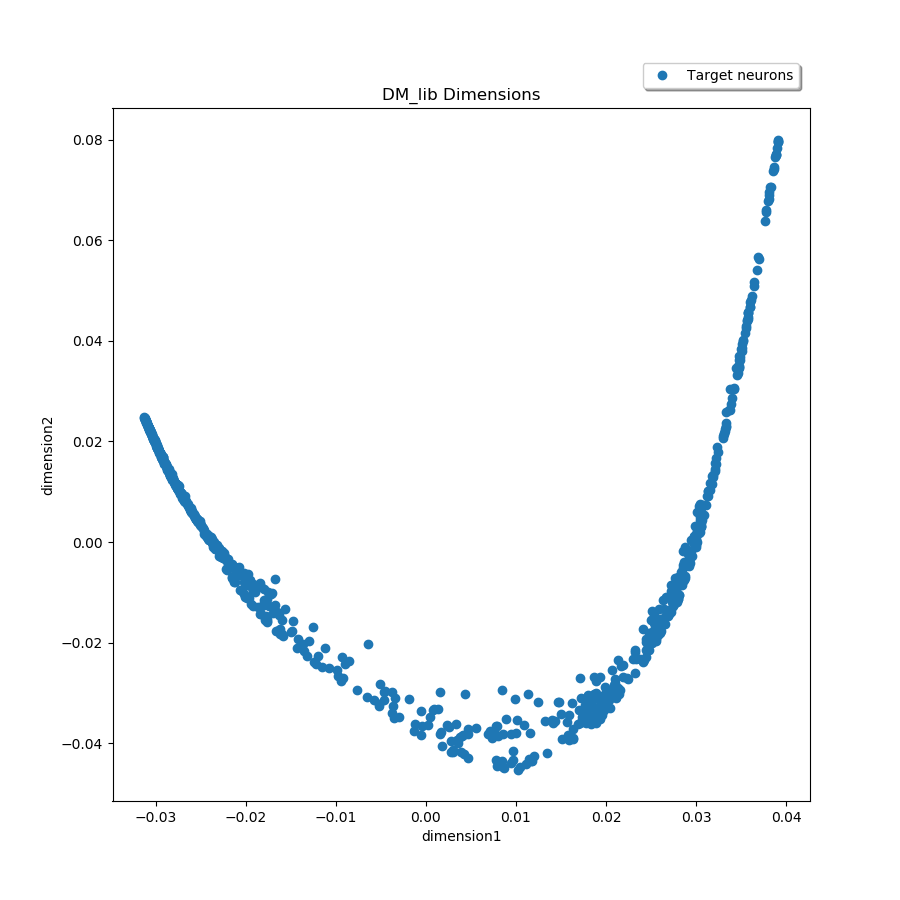
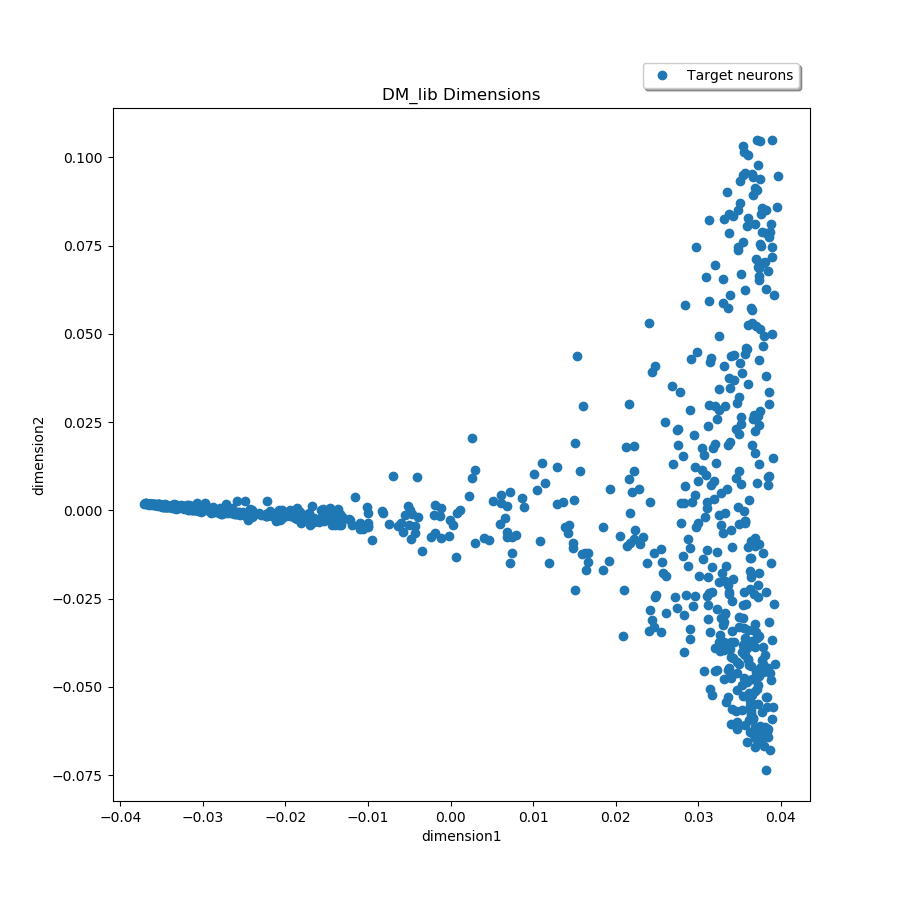
results

diff --git a/core/diffusion_lib_pfc.py b/core/diffusion_lib_pfc.py
@@ -1,7 +1,6 @@
 import sys
 import scipy.io
 import numpy as np
-import pandas as pd
 import matplotlib.pyplot as plt
 from mpl_toolkits.mplot3d import Axes3D 
 
@@ -9,35 +8,13 @@ from sklearn.datasets import load_digits
 from sklearn.manifold import SpectralEmbedding
 
 #X = np.genfromtxt("../data/processed/hc_13/T22_4.csv", delimiter=',')[:, (1,2)]
-d1 = np.load("../distances/21/1/distance_matrix_T22_0_1s_20ms.npy")
-d2 = np.load("../distances/21/1/distance_matrix_T22_2_1s_20ms.npy")
-d3 = np.load("../distances/21/1/distance_matrix_T22_3_1s_20ms.npy")
-d4 = np.load("../distances/21/1/distance_matrix_T22_4_1s_20ms.npy")
-d5 = np.load("../distances/21/1/distance_matrix_T26_0_1s_20ms.npy")
-d6 = np.load("../distances/21/1/distance_matrix_T27_0_1s_20ms.npy")
-d7 = np.load("../distances/21/1/distance_matrix_T27_1_1s_20ms.npy")
-d8 = np.load("../distances/21/1/distance_matrix_T27_2_1s_20ms.npy")
-d9 = np.load("../distances/21/1/distance_matrix_T27_3_1s_20ms.npy")
-d10 = np.load("../distances/21/1/distance_matrix_T27_4_1s_20ms.npy")
-d11 = np.load("../distances/21/1/distance_matrix_T27_5_1s_20ms.npy")
-d12 = np.load("../distances/21/1/distance_matrix_T27_6_1s_20ms.npy")
-#d13 = np.load("../distances/21/1/distance_matrix_T27_7_1s_20ms.npy")
+d1 = np.load("../distances/21/1/distance_matrix_T12_0_1s_20ms.npy")
+d2 = np.load("../distances/21/1/distance_matrix_T15_0_1s_20ms.npy")
+d3 = np.load("../distances/21/1/distance_matrix_T19_0_1s_20ms.npy")
 # d1 = d1/np.amax(d1)
 # d2 = d2/np.amax(d2)
 # d3 = d3/np.amax(d3)
-# d4 = d4/np.amax(d4)
-# d5 = d5/np.amax(d5)
-# d6 = d6/np.amax(d6)
-# d7 = d7/np.amax(d7)
-# d8 = d8/np.amax(d8)
-# d9 = d9/np.amax(d9)
-# d10 = d10/np.amax(d10)
-# d11 = d11/np.amax(d11)
-# d12 = d12/np.amax(d12)
-#dM = np.sqrt(d1**2 + d3**2 + d4**2 + d5**2 + d6**2 + d7**2 + d8**2 + d9**2 + d10**2 + d11**2 + d12**2)
-dM = np.sqrt(d1**2 + d2**2 + d3**2 + d4**2 + d5**2 + d6**2 + d7**2 + d8**2 + d9**2 + d10**2 + d11**2 + d12**2)
-
-#dM = np.load("../distances/21/1/distance_matrix_spatial.npy")
+dM = np.sqrt(d1**2 + d2**2 + d3**2)
 
 def thresholdMatrix(sM, topN):
   n = sM.shape[0]
@@ -71,13 +48,52 @@ coords = embedding.fit( thresholdMatrix(1/(dM+0.1), 10) ).embedding_
 #coords = embedding.fit( np.exp(-dM/64) ).embedding_
 print(coords.shape)
 
+fig = plt.figure(figsize=(9,9))
+ax = plt.subplot(111)
+ax.plot(coords[:, 0], coords[:, 1], 'o-', label="Target neurons")
+plt.title('DM_lib Dimensions')
+plt.xlabel('dimension1')
+plt.ylabel('dimension2')
+ax.legend(loc='upper left', bbox_to_anchor=(0.75, 1.075), shadow=True, ncol=1)
+#plt.savefig('../results/dm/21/1/test_dmlib.svg', format="svg")
+plt.savefig('../results/21/1/pfc/dm2d.png')
 
+fig = plt.figure(figsize=(9,9))
+ax = plt.subplot(111)
+ax.plot(coords[:, 0], 'o-', label="Target neurons")
+plt.title('DM_lib Dimensions')
+plt.xlabel('dimension1')
+plt.ylabel('dimension2')
+ax.legend(loc='upper left', bbox_to_anchor=(0.75, 1.075), shadow=True, ncol=1)
+#plt.savefig('../results/dm/21/1/test_dmlib_ev1.svg', format="svg")
+plt.savefig('../results/21/1/pfc/dmev1.png')
+
+fig = plt.figure(figsize=(9,9))
+ax = plt.subplot(111)
+ax.plot(coords[:, 1], 'o-', label="Target neurons")
+plt.title('DM_lib Dimensions')
+plt.xlabel('dimension1')
+plt.ylabel('dimension2')
+ax.legend(loc='upper left', bbox_to_anchor=(0.75, 1.075), shadow=True, ncol=1)
+#plt.savefig('../results/dm/21/1/test_dmlib_ev2.svg', format="svg")
+plt.savefig('../results/21/1/pfc/dmev2.png')
+
+
+rng = dM.shape[0]
+fig = plt.figure()
+ax = fig.gca(projection='3d')
+z = np.linspace(0, rng, rng)
+
+ax.plot(coords[:, 0], coords[:, 1], z, 'o-', label='parametric curve', linewidth=0.6, markersize=1)# c = plt.cm.jet(z/max(z)))
+ax.legend()
+
+#plt.show()
+plt.savefig('../results/21/1/pfc/dm3d.png')
 
 
 
 
 ############################ CORNER OVERLAP ###########################
-
 
 
 mat = scipy.io.loadmat('../data/raw/hc_13/T1rawpos.mat')
@@ -102,25 +118,6 @@ resY = np.zeros(rng)
 for i in range(0, spikes.size):
   resX[int((int(spikes[i])-start)/fct)] = xs[i]
   resY[int((int(spikes[i])-start)/fct)] = ys[i]
-
-# fig = plt.figure()
-# ax = fig.gca(projection='3d')
-# z = np.linspace(0, rng, rng)
-
-# ax.plot(resX, resY, z, 'o-', label='parametric curve', linewidth=0.6, markersize=1)# c = plt.cm.jet(z/max(z)))
-# ax.legend()
-
-# #plt.show()
-# plt.savefig("../plots/position_plot/" + sys.argv[1] + "/" + sys.argv[2] + "/overall3D.png")
-
-fig = plt.figure(figsize=(9,9))
-ax = plt.subplot(111)
-ax.plot(resX, resY, 'o', label="Target neuron")
-plt.title('Position plot')
-plt.xlabel('x position')
-plt.ylabel('y position')
-ax.legend(loc='upper left', bbox_to_anchor=(0.75, 1.075), shadow=True, ncol=1)
-plt.savefig("../plots/position_plot/" + sys.argv[1] + "/" + sys.argv[2] + "/filtered_" + cellNo + ".png")
 
 
 cornerX = []
@@ -162,7 +159,7 @@ plt.xlabel('dimension1')
 plt.ylabel('dimension2')
 ax.legend(loc='upper left',  shadow=True, ncol=1)#bbox_to_anchor=(0.75, 1.075),
 #plt.savefig('../results/dm/21/1/test_dmlib_ev1.svg', format="svg")
-plt.savefig('../results/21/1/dmev1_overlap_200.png')
+plt.savefig('../results/21/1/pfc/dmev1_overlap_200.png')
 
 fig = plt.figure(figsize=(9,9))
 ax = plt.subplot(111)
@@ -176,4 +173,4 @@ plt.xlabel('dimension1')
 plt.ylabel('dimension2')
 ax.legend(loc='upper left',  shadow=True, ncol=1)#bbox_to_anchor=(0.75, 1.075),
 #plt.savefig('../results/dm/21/1/test_dmlib_ev1.svg', format="svg")
-plt.savefig('../results/21/1/dmev2_overlap_200.png')
+plt.savefig('../results/21/1/pfc/dmev2_overlap_200.png')

diff --git a/core/diffusion_lib.py b/core/diffusion_lib.py
@@ -7,19 +7,19 @@ from sklearn.datasets import load_digits
 from sklearn.manifold import SpectralEmbedding
 
 #X = np.genfromtxt("../data/processed/hc_13/T22_4.csv", delimiter=',')[:, (1,2)]
-d1 = np.load("../distances/23/5/distance_matrix_T22_0_1s_20ms.npy")
-d2 = np.load("../distances/23/5/distance_matrix_T22_1_1s_20ms.npy")
-d4 = np.load("../distances/23/5/distance_matrix_T22_2_1s_20ms.npy")
-d3 = np.load("../distances/23/5/distance_matrix_T22_3_1s_20ms.npy")
-d5 = np.load("../distances/23/5/distance_matrix_T26_0_1s_20ms.npy")
-d6 = np.load("../distances/23/5/distance_matrix_T27_0_1s_20ms.npy")
-d7 = np.load("../distances/23/5/distance_matrix_T27_1_1s_20ms.npy")
-d8 = np.load("../distances/23/5/distance_matrix_T27_2_1s_20ms.npy")
-#d9 = np.load("../distances/23/5/distance_matrix_T27_3_1s_20ms.npy")
-d10 = np.load("../distances/23/5/distance_matrix_T27_4_1s_20ms.npy")
-d11 = np.load("../distances/23/5/distance_matrix_T27_5_1s_20ms.npy")
-d12 = np.load("../distances/23/5/distance_matrix_T27_6_1s_20ms.npy")
-d13 = np.load("../distances/23/5/distance_matrix_T27_7_1s_20ms.npy")
+d1 = np.load("../distances/21/1/distance_matrix_T22_0_1s_20ms.npy")
+d2 = np.load("../distances/21/1/distance_matrix_T22_2_1s_20ms.npy")
+d3 = np.load("../distances/21/1/distance_matrix_T22_3_1s_20ms.npy")
+d4 = np.load("../distances/21/1/distance_matrix_T22_4_1s_20ms.npy")
+d5 = np.load("../distances/21/1/distance_matrix_T26_0_1s_20ms.npy")
+d6 = np.load("../distances/21/1/distance_matrix_T27_0_1s_20ms.npy")
+d7 = np.load("../distances/21/1/distance_matrix_T27_1_1s_20ms.npy")
+d8 = np.load("../distances/21/1/distance_matrix_T27_2_1s_20ms.npy")
+d9 = np.load("../distances/21/1/distance_matrix_T27_3_1s_20ms.npy")
+d10 = np.load("../distances/21/1/distance_matrix_T27_4_1s_20ms.npy")
+d11 = np.load("../distances/21/1/distance_matrix_T27_5_1s_20ms.npy")
+d12 = np.load("../distances/21/1/distance_matrix_T27_6_1s_20ms.npy")
+#d13 = np.load("../distances/21/1/distance_matrix_T27_7_1s_20ms.npy")
 # d1 = d1/np.amax(d1)
 # d2 = d2/np.amax(d2)
 # d3 = d3/np.amax(d3)
@@ -32,10 +32,10 @@ d13 = np.load("../distances/23/5/distance_matrix_T27_7_1s_20ms.npy")
 # d10 = d10/np.amax(d10)
 # d11 = d11/np.amax(d11)
 # d12 = d12/np.amax(d12)
-dM = np.sqrt(d1**2 + d2**2 + d3**2 + d4**2 + d5**2 + d6**2 + d7**2 + d8**2 + d10**2 + d11**2 + d12**2 +  d13**2)
-#dM = np.sqrt(d1**2 + d2**2 + d3**2 + d4**2 + d5**2 + d6**2 + d7**2 + d8**2 + d9**2 + d10**2 + d11**2 + d12**2)
+#dM = np.sqrt(d1**2 + d2**2 + d3**2 + d4**2 + d5**2 + d6**2 + d7**2 + d8**2 + d10**2 + d11**2 + d12**2 +  d13**2)
+dM = np.sqrt(d1**2 + d2**2 + d3**2 + d4**2 + d5**2 + d6**2 + d7**2 + d8**2 + d9**2 + d10**2 + d11**2 + d12**2)
 
-#dM = np.load("../distances/23/5/distance_matrix_spatial.npy")
+#dM = np.load("../distances/21/1/distance_matrix_spatial.npy")
 
 def thresholdMatrix(sM, topN):
   n = sM.shape[0]
@@ -61,6 +61,7 @@ def thresholdMatrix(sM, topN):
 
 embedding = SpectralEmbedding(n_components=2, affinity="precomputed", n_neighbors=0)
 coords = embedding.fit( thresholdMatrix(1/(dM+0.1), 10) ).embedding_
+#coords = embedding.fit( thresholdMatrix(np.exp(-dM), 10) ).embedding_
 #coords = embedding.fit( 1/(dM+0.0001) ).embedding_
 #coords = embedding.fit( 1/(dM + 0.01)**2).embedding_
 #coords = embedding.fit( np.exp(-dM) ).embedding_
@@ -75,28 +76,28 @@ plt.title('DM_lib Dimensions')
 plt.xlabel('dimension1')
 plt.ylabel('dimension2')
 ax.legend(loc='upper left', bbox_to_anchor=(0.75, 1.075), shadow=True, ncol=1)
-#plt.savefig('../results/dm/23/5/test_dmlib.svg', format="svg")
-plt.savefig('../results/23/5/dm2d.png')
+#plt.savefig('../results/dm/21/1/test_dmlib.svg', format="svg")
+plt.savefig('../results/21/1/dm2d.png')
 
 fig = plt.figure(figsize=(9,9))
 ax = plt.subplot(111)
-ax.plot(coords[:, 0][200:245], 'o-', label="Target neurons")
+ax.plot(coords[:, 0], 'o-', label="Target neurons")
 plt.title('DM_lib Dimensions')
 plt.xlabel('dimension1')
 plt.ylabel('dimension2')
 ax.legend(loc='upper left', bbox_to_anchor=(0.75, 1.075), shadow=True, ncol=1)
-#plt.savefig('../results/dm/23/5/test_dmlib_ev1.svg', format="svg")
-plt.savefig('../results/23/5/dmev1.png')
+#plt.savefig('../results/dm/21/1/test_dmlib_ev1.svg', format="svg")
+plt.savefig('../results/21/1/dmev1.png')
 
 fig = plt.figure(figsize=(9,9))
 ax = plt.subplot(111)
-ax.plot(coords[:, 1][200:245], 'o-', label="Target neurons")
+ax.plot(coords[:, 1], 'o-', label="Target neurons")
 plt.title('DM_lib Dimensions')
 plt.xlabel('dimension1')
 plt.ylabel('dimension2')
 ax.legend(loc='upper left', bbox_to_anchor=(0.75, 1.075), shadow=True, ncol=1)
-#plt.savefig('../results/dm/23/5/test_dmlib_ev2.svg', format="svg")
-plt.savefig('../results/23/5/dmev2.png')
+#plt.savefig('../results/dm/21/1/test_dmlib_ev2.svg', format="svg")
+plt.savefig('../results/21/1/dmev2.png')
 
 
 rng = dM.shape[0]
@@ -108,4 +109,4 @@ ax.plot(coords[:, 0], coords[:, 1], z, 'o-', label='parametric curve', linewidth
 ax.legend()
 
 #plt.show()
-plt.savefig('../results/23/5/dm3d.png')
+plt.savefig('../results/21/1/dm3d.png')

diff --git a/core/diffusion_lib_filtered.py b/core/diffusion_lib_filtered.py
@@ -52,7 +52,7 @@ print(coords.shape)
 
 fig = plt.figure(figsize=(9,9))
 ax = plt.subplot(111)
-ax.plot(coords[:, 0], coords[:, 1], 'o-', label="Target neurons")
+ax.plot(coords[:, 0], coords[:, 1], 'o', label="Target neurons")
 plt.title('DM_lib Dimensions')
 plt.xlabel('dimension1')
 plt.ylabel('dimension2')
